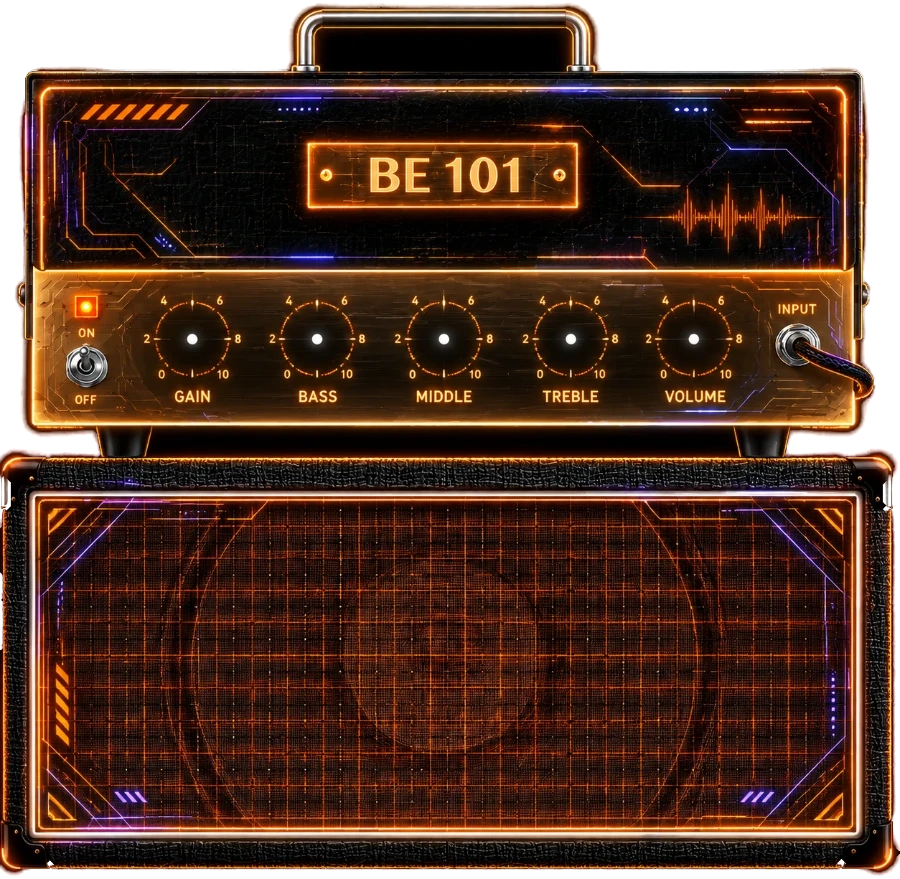
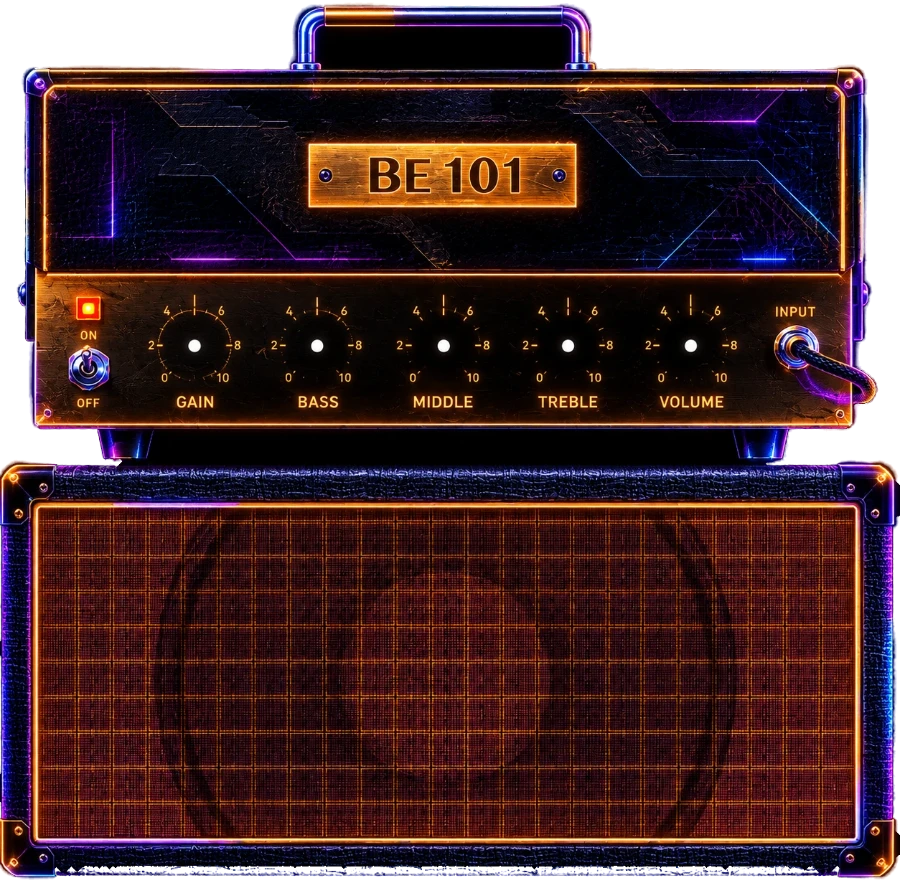
Bozza: otto immagini rifatte dall'utente al posto delle vecchie
Red Comp, Sustainer, Tube Drive, Optical Comp, Booster, Rocker V, Jumbo e
BE 101 nello stile nuovo; misure rifatte, indici invariati. La levetta Pad
dell'Optical Comp ora è disegnata giù (0 dB).

diff --git a/src/spark-immagini.js b/src/spark-immagini.js
@@ -486,20 +486,21 @@
       tasti: [{ x: 726.7, y: 553.9, w: 313.6, h: 128.8, apre: 'autowah' }],
       barra: { x: 502.2, y0: 129.7, y1: 858.8, n: 20, r: 8 },
     },
-    // Optical Comp. Il parametro 2, Pad, è la levetta in mezzo: in alto -15 dB,
-    // in basso 0 dB. **Da verificare a orecchio**: si assume 1 = -15 dB = in alto.
+    // Optical Comp, rifatto. Il parametro 2, Pad, è la levetta in mezzo: in alto
+    // -15 dB, in basso 0 dB; qui è disegnata giù (`su: 0`). **Da verificare a
+    // orecchio**: si assume 1 = -15 dB = in alto.
     BBEOpticalComp: {
-      src: 'immagini/blocchi/BBEOpticalComp.webp', w: 900, h: 1341,
+      src: 'immagini/blocchi/BBEOpticalComp.webp', w: 900, h: 1315,
       manopola: manopola('rossa'),
       manopole: [
-        { indice: 0, x: 249.4, y: 276.8, r: 95.4 },   // Volume
-        { indice: 1, x: 649.8, y: 276.8, r: 95.4, manopola: manopola('azzurra') },   // Comp
+        { indice: 0, x: 248, y: 267.8, r: 119.8 },   // Volume
+        { indice: 1, x: 650.9, y: 269.7, r: 119.8 },   // Comp
       ],
       levette: [
-        { indice: 2, x: 450.5, y: 448.9, r: 53.3, su: 1 },   // Pad: -15 dB (su) / 0 dB (giù)
+        { indice: 2, x: 450.5, y: 433.7, r: 36.3, su: 0 },   // Pad: 0 dB (giù, com'è disegnata) / -15 dB (su)
       ],
-      led: { x: 449.6, y: 113, r: 30.9 },
-      pulsante: { x: 450.5, y: 1132.9, r: 92.6 },
+      led: { x: 447.3, y: 105.2, r: 20 },
+      pulsante: { x: 449.1, y: 1106.9, r: 72.6 },
     },
     BassComp: {                                       // Bass Comp
       src: 'immagini/blocchi/BassComp.webp', w: 900, h: 1361,
@@ -511,15 +512,17 @@
       led: { x: 449, y: 110, r: 30.2 },
       pulsante: { x: 449, y: 1161.2, r: 84.6 },
     },
-    Compressor: {                                     // Red Comp
-      src: 'immagini/blocchi/Compressor.webp', w: 832, h: 1227,
+    // Red Comp (modello «Compressor»), rifatto: Output e Sensitivity dentro i
+    // cerchi col mirino.
+    Compressor: {
+      src: 'immagini/blocchi/Compressor.webp', w: 900, h: 1347,
       manopola: manopola('rossa'),
       manopole: [
-        { indice: 0, x: 234.6, y: 257.5, r: 72 },     // Output
-        { indice: 1, x: 593,   y: 257.4, r: 72 },     // Sensitivity
+        { indice: 0, x: 249.4, y: 276.5, r: 91.2 },   // Output
+        { indice: 1, x: 650.8, y: 276.6, r: 91.2 },   // Sensitivity
       ],
-      led: { x: 415, y: 107, r: 28 },
-      pulsante: { x: 415, y: 1047, r: 90 },
+      led: { x: 449.5, y: 107.6, r: 20.1 },
+      pulsante: { x: 449.5, y: 1117, r: 68.4 },
     },
     // LA Comp. Il parametro 0, Limit/Compress, è la levetta in mezzo: nei preset
     // veri vale sempre 0. **Da verificare a orecchio quale sia Limit**: qui si
@@ -547,29 +550,32 @@
       led: { x: 450.3, y: 122.5, r: 21.3 },
       pulsante: { x: 450.3, y: 1085.7, r: 60.4 },
     },
-    // Il Sustainer cyberpunk (al posto di quello azzurro del primo giro).
+    // Sustainer (modello «BlueComp»), rifatto: Level e Sustain grandi, Tone e
+    // Attack in mezzo, dentro gli archi.
     BlueComp: {
-      src: 'immagini/blocchi/BlueComp.webp', w: 900, h: 906,
+      src: 'immagini/blocchi/BlueComp.webp', w: 900, h: 875,
       manopola: manopola('viola'),
       manopole: [
-        { indice: 0, x: 198.7, y: 175,   r: 78.6 },   // Level
-        { indice: 3, x: 704.2, y: 175,   r: 78.6 },   // Sustain
-        { indice: 1, x: 345.6, y: 361.3, r: 57.1 },   // Tone
-        { indice: 2, x: 558.8, y: 361.3, r: 57.1 },   // Attack
+        { indice: 0, x: 200.3, y: 161, r: 78.1 },   // Level
+        { indice: 3, x: 698.4, y: 160.9, r: 78.1 },   // Sustain
+        { indice: 1, x: 349.7, y: 342.8, r: 65.1 },   // Tone
+        { indice: 2, x: 550, y: 342.7, r: 65.1 },   // Attack
       ],
-      led: { x: 451.8, y: 158.9, r: 23.2 },
-      pulsante: { x: 450.9, y: 791.1, r: 62.5 },
+      led: { x: 450, y: 145.8, r: 15.9 },
+      pulsante: { x: 450, y: 768.3, r: 44.9 },
     },
-    DistortionTS9: {                                  // Tube Drive
-      src: 'immagini/blocchi/DistortionTS9.webp', w: 774, h: 1155,
+    // Tube Drive (modello «DistortionTS9»), rifatto: Overdrive e Level in alto,
+    // Tone in mezzo, dentro le corone di tacche.
+    DistortionTS9: {
+      src: 'immagini/blocchi/DistortionTS9.webp', w: 900, h: 1324,
       manopola: manopola('verde'),
       manopole: [
-        { indice: 0, x: 198.4, y: 192.9, r: 66 },     // Overdrive
-        { indice: 2, x: 571.8, y: 192.8, r: 66 },     // Level
-        { indice: 1, x: 385.6, y: 376.5, r: 54 },     // Tone
+        { indice: 0, x: 236.3, y: 212.2, r: 104.2 },   // Overdrive
+        { indice: 2, x: 669, y: 212.2, r: 104.2 },   // Level
+        { indice: 1, x: 449.8, y: 430.5, r: 85.3 },   // Tone
       ],
-      led: { x: 385, y: 92, r: 20 },
-      pulsante: { x: 385, y: 942, r: 70 },
+      led: { x: 450, y: 99.5, r: 17.1 },
+      pulsante: { x: 449.1, y: 1094.2, r: 66.3 },
     },
     // Clone Drive: ogni manopola nel colore della sua scala (Gain arancione,
     // Output viola, Treble azzurro). Pulsante: il cerchio sotto l'arciere.
@@ -644,16 +650,16 @@
       led: { x: 449.4, y: 177.3, r: 31.7 },
       pulsante: { x: 450, y: 1104.1, r: 132.6 },
     },
-    // Booster: una manopola sola, il Gain, dentro il cerchio viola. La spia è
-    // l'anello rosso sotto la scritta GAIN; pulsante: il cerchio sotto il razzo.
+    // Booster, rifatto: una manopola sola, il Gain, dentro l'arco verde; la spia
+    // sotto la scritta GAIN.
     Booster: {
-      src: 'immagini/blocchi/Booster.webp', w: 900, h: 1480,
-      manopola: manopola('viola'),
+      src: 'immagini/blocchi/Booster.webp', w: 900, h: 1490,
+      manopola: manopola('verde'),
       manopole: [
-        { indice: 0, x: 447.4, y: 282.6, r: 106.1 },  // Gain
+        { indice: 0, x: 450.1, y: 271.6, r: 144.7 },   // Gain
       ],
-      led: { x: 447.7, y: 582.6, r: 24.2 },
-      pulsante: { x: 447.7, y: 1153, r: 75.8 },
+      led: { x: 448.5, y: 541.8, r: 22 },
+      pulsante: { x: 450, y: 1118.5, r: 69.8 },
     },
     // Fuzz Face: attorno ai puntini non c'è una scala, quindi il raggio lo
     // decide la cornice (le manopole grandi quanto ci stanno, ~50 px di aria).
@@ -1014,20 +1020,20 @@
       led: { x: 89.5, y: 303.8, r: 9.4 },
       pulsante: { x: 88.3, y: 367.1, r: 17.4 },
     },
-    // Jumbo (modello «FatAcousticV2»): tutto azzurro; la manopola copre
-    // quella nera disegnata e lascia la scala. Pulsante: la levetta Power.
+    // Jumbo (modello «FatAcousticV2»), rifatto: azzurro e viola; la manopola copre
+    // quella nera disegnata e lascia i numeri. Pulsante: la levetta Power.
     FatAcousticV2: {
-      src: 'immagini/blocchi/FatAcousticV2.webp', w: 900, h: 863,
+      src: 'immagini/blocchi/FatAcousticV2.webp', w: 900, h: 874,
       manopola: manopola('azzurra'),
       manopole: [
-        { indice: 0, x: 204.3, y: 336.2, r: 30.4 },   // Gain
-        { indice: 3, x: 326.8, y: 336.2, r: 30.4 },   // Bass
-        { indice: 2, x: 448.6, y: 336.2, r: 30.4 },   // Middle
-        { indice: 1, x: 571.7, y: 336.2, r: 30.4 },   // Treble
-        { indice: 4, x: 692.8, y: 336.2, r: 30.4 },   // Master (Volume)
+        { indice: 0, x: 201, y: 342.6, r: 29.3 },   // Gain
+        { indice: 3, x: 325.4, y: 342.6, r: 29.3 },   // Bass
+        { indice: 2, x: 448.5, y: 342.6, r: 29.3 },   // Middle
+        { indice: 1, x: 571.1, y: 342.6, r: 29.3 },   // Treble
+        { indice: 4, x: 692.8, y: 342.6, r: 29.3 },   // Master (Volume)
       ],
-      led: { x: 98.5, y: 303.6, r: 9.4 },
-      pulsante: { x: 97.8, y: 362.3, r: 17.4 },
+      led: { x: 94.9, y: 307.6, r: 10.3 },
+      pulsante: { x: 93.7, y: 367.6, r: 20.5 },
     },
     // Fishboy (modello «AcousticAmpV2»): pannello dorato; la manopola copre
     // quella nera disegnata e lascia la scala. Pulsante: la levetta Power.
@@ -1059,35 +1065,36 @@
       led: { x: 101.2, y: 307.1, r: 9.4 },
       pulsante: { x: 100.8, y: 366.2, r: 17.4 },
     },
-    // BE 101 (Friedman BE-100): pannello arancione; la manopola sta dentro la
-    // scala tratteggiata. Pulsante: la levetta ON/OFF.
+    // BE 101 (Friedman BE-100), rifatto: pannello arancione, la cassa sotto; la
+    // manopola dentro la scala. Pulsante: la levetta ON/OFF.
     BE101: {
-      src: 'immagini/blocchi/BE101.webp', w: 900, h: 879,
+      src: 'immagini/blocchi/BE101.webp', w: 900, h: 883,
       manopola: manopola('arancione'),
       manopole: [
-        { indice: 0, x: 192.3, y: 338.8, r: 30.1 },   // Gain
-        { indice: 3, x: 317.2, y: 338.8, r: 30.1 },   // Bass
-        { indice: 2, x: 443.5, y: 338.8, r: 30.1 },   // Middle
-        { indice: 1, x: 570.6, y: 338.8, r: 30.1 },   // Treble
-        { indice: 4, x: 694,   y: 338.8, r: 30.1 },   // Master (Volume)
+        { indice: 0, x: 194.3, y: 345.7, r: 30.1 },   // Gain
+        { indice: 3, x: 316.9, y: 345.7, r: 30.1 },   // Bass
+        { indice: 2, x: 443.4, y: 345.8, r: 30.1 },   // Middle
+        { indice: 1, x: 567.7, y: 345.8, r: 30.1 },   // Treble
+        { indice: 4, x: 690.5, y: 345.6, r: 30.1 },   // Master (Volume)
       ],
-      led: { x: 86.3, y: 305.8, r: 9.3 },
-      pulsante: { x: 86.1, y: 367.5, r: 17.2 },
+      led: { x: 87.8, y: 307.8, r: 9.3 },
+      pulsante: { x: 87.6, y: 368.2, r: 20.1 },
     },
-    // Rocker V (modello «Invader»): pannello nero e arancione; attorno ai
-    // puntini solo la corona di tacche bianche. Pulsante: la levetta Power.
+    // Rocker V (modello «Invader»), rifatto: testata viola e arancione, la cassa
+    // sotto; le manopole dentro le corone di tacche azzurre. Pulsante: la levetta
+    // Power.
     Invader: {
-      src: 'immagini/blocchi/Invader.webp', w: 900, h: 853,
-      manopola: manopola('arancione'),
+      src: 'immagini/blocchi/Invader.webp', w: 900, h: 861,
+      manopola: manopola('azzurra'),
       manopole: [
-        { indice: 0, x: 197.9, y: 331.4, r: 29.7 },   // Gain
-        { indice: 3, x: 319.9, y: 331.4, r: 29.7 },   // Bass
-        { indice: 2, x: 443.6, y: 331.4, r: 29.7 },   // Middle
-        { indice: 1, x: 565.5, y: 331.4, r: 29.7 },   // Treble
-        { indice: 4, x: 687.9, y: 331.4, r: 29.7 },   // Master (Volume)
+        { indice: 0, x: 192.7, y: 328.3, r: 31.4 },   // Gain
+        { indice: 3, x: 317.6, y: 328.3, r: 31.4 },   // Bass
+        { indice: 2, x: 442.9, y: 328.3, r: 31.4 },   // Middle
+        { indice: 1, x: 569.9, y: 328.3, r: 31.4 },   // Treble
+        { indice: 4, x: 693.8, y: 328.3, r: 31.4 },   // Master (Volume)
       ],
-      led: { x: 89.8, y: 294.7, r: 9.2 },
-      pulsante: { x: 89.1, y: 350, r: 17 },
+      led: { x: 87.4, y: 291.8, r: 9.3 },
+      pulsante: { x: 87.1, y: 344.7, r: 20 },
     },
     // SwitchAxe (Friedman BE-100, canale lead): pannello nero; la manopola
     // copre quella nera disegnata e lascia l'arco. Pulsante: la levetta ON/OFF.
